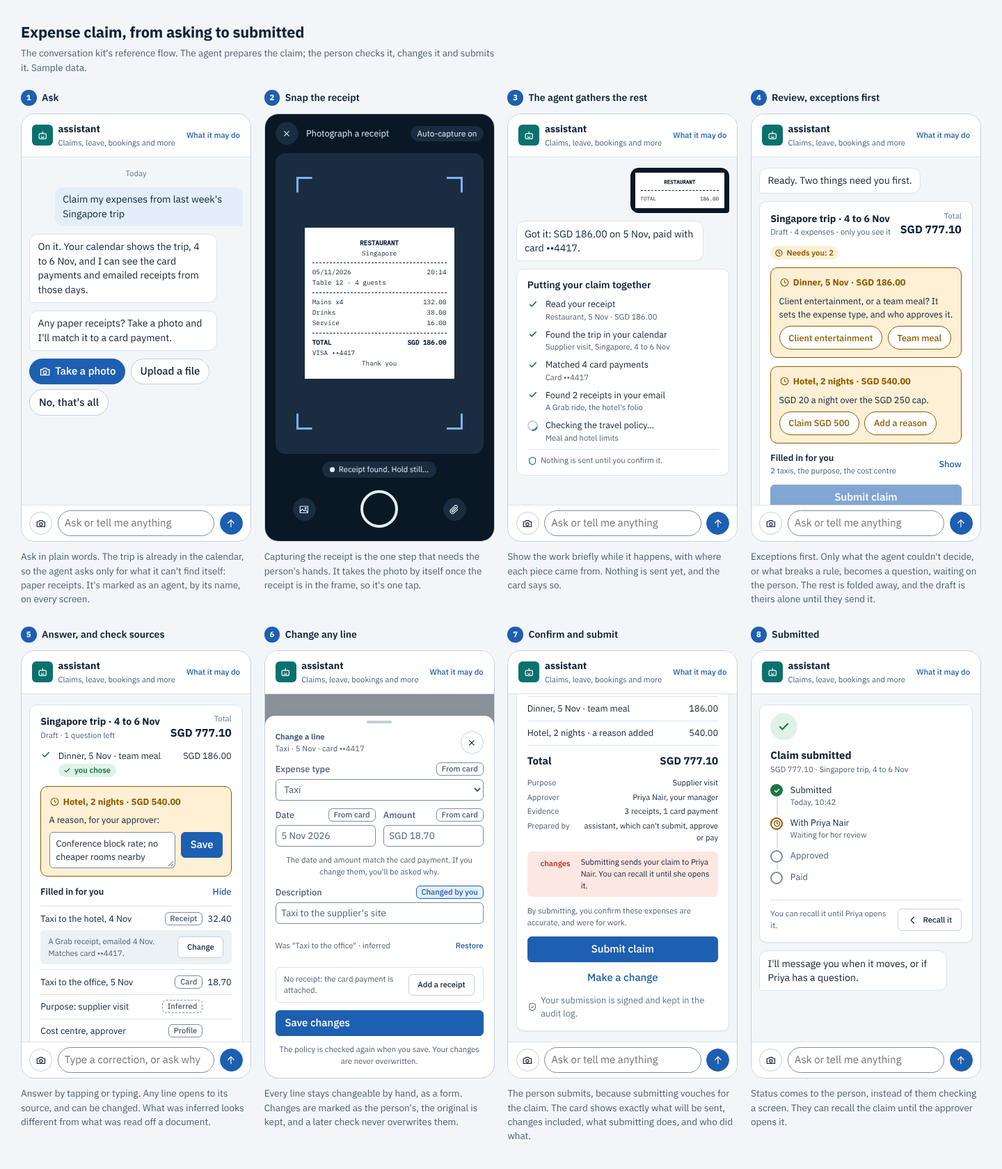
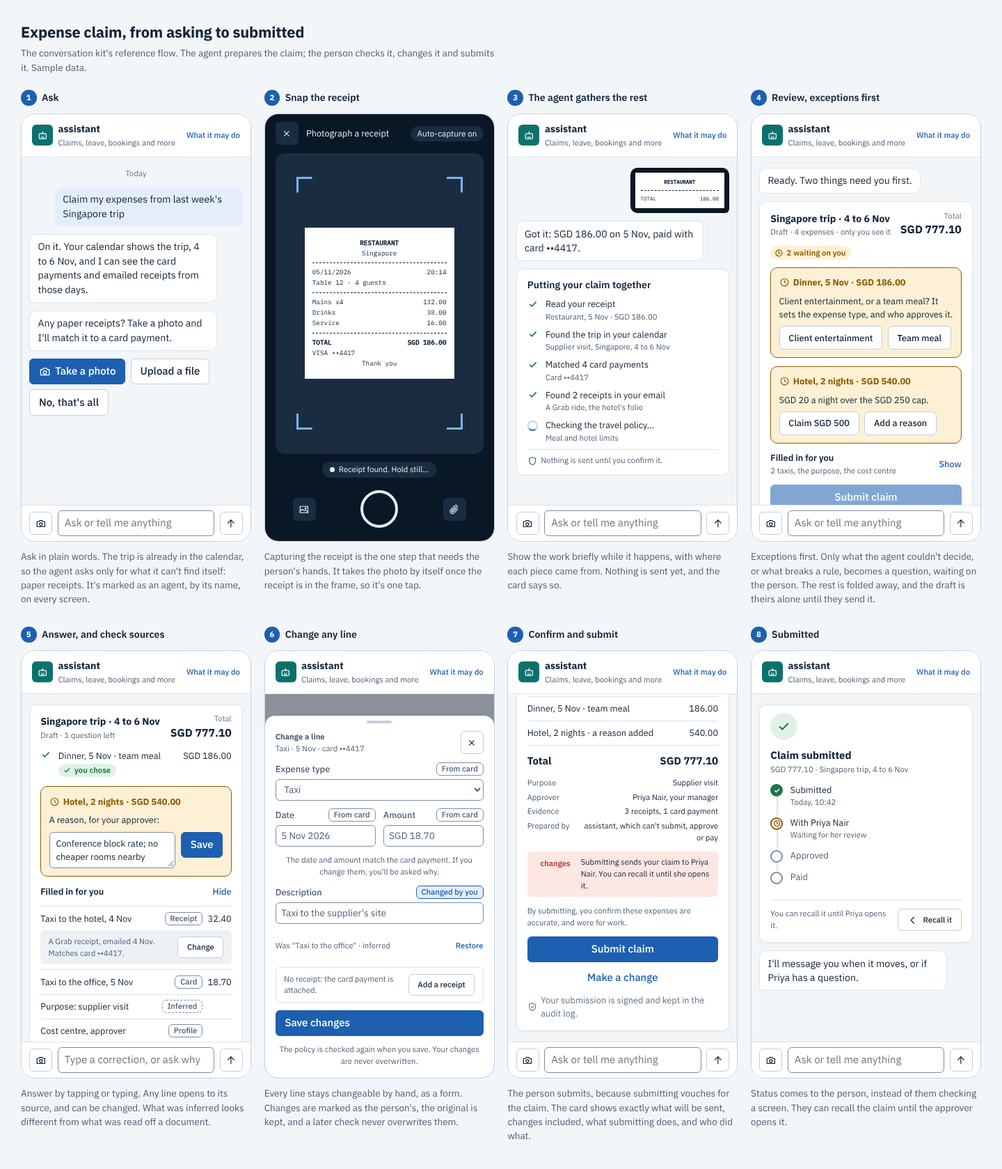
Hold the conversation kit to Ocean's own rules
Checked line by line against the brand book, the kit had drifted:

- Quick replies and the composer's field were pills, and its icon buttons
  circles; a button and a field are --radius-sm, as everywhere, and a
  circle is a person's, or a stage's, a state's, or what hangs from an
  agent on a canvas (now said in the brand book).
- A question's answers were amber buttons; they're plain buttons, and the
  box around them says it waits on the person.
- Send was always primary, so a screen had two; it stays plain until
  there's something to send.
- Bubbles were 12px; they're --radius-md, with --radius-sm at the corner
  nearest who said it.
- "Needs you: 2" is "2 waiting on you", in Ocean's lower-case badge words,
  in the Teams card too.

The README and the screens say plainly that the Teams picture is Teams'
look: Teams draws its cards, so they keep Ocean's rules and words, not its
colours or type.

Claude-Session: https://claude.ai/code/session_01VqgvTF3Xa1Y4d88AsQrSvC

diff --git a/components/InTeams/preview.html b/components/InTeams/preview.html
@@ -28,7 +28,7 @@
 <div class="tm-msg own"><span class="tm-time">10:41</span><div class="tm-bubble tm-photo"><div class="receipt mini" role="img" aria-label="The photo of the receipt"><p class="center"><strong>RESTAURANT</strong></p><hr><p><span>TOTAL</span><span>186.00</span></p></div></div></div>
 <div class="tm-msg bot"><span class="avatar agent" aria-hidden="true"><svg viewBox="0 0 24 24" aria-hidden="true" class="icon"><path d="M7 8.5h10a2.5 2.5 0 0 1 2.5 2.5v6A2.5 2.5 0 0 1 17 19.5H7A2.5 2.5 0 0 1 4.5 17v-6A2.5 2.5 0 0 1 7 8.5z"/><path d="M12 4.5v4"/><path d="M9.5 13.5h.01"/><path d="M14.5 13.5h.01"/><path d="M9.5 16.5h5"/></svg></span><div class="tm-msg-body">
 <div class="tm-meta"><strong>Expenses</strong><span>10:42</span><span class="tm-ai">AI generated</span></div>
-<div class="tm-bubble"><p class="tm-say">Ready. Two things need you first.</p><div class="tm-card"><div class="tm-cols"><div class="tm-col w-stretch"><p class="tm-text sz-medium bold">Singapore trip · 4 to 6 Nov</p><p class="tm-text sz-small subtle sp-none">Draft · 4 expenses · only you see it</p></div><div class="tm-col w-auto"><p class="tm-text sz-small subtle al-right">Total</p><p class="tm-text sz-medium bold al-right sp-none">SGD 777.10</p></div></div><span class="tm-badge st-warning ap-tint sp-medium"><svg viewBox="0 0 24 24" aria-hidden="true" class="tm-svg"><path d="M12 3.5a8.5 8.5 0 1 0 0 17 8.5 8.5 0 0 0 0-17z"/><path d="M12 7.5V12l3 2"/></svg>Needs you: 2</span><div class="tm-box st-warning border rounded sp-small"><div class="tm-cols"><div class="tm-col w-auto v-center"><span class="tm-icon c-warning sz-xsmall"><svg viewBox="0 0 24 24" aria-hidden="true" class="tm-svg"><path d="M12 3.5a8.5 8.5 0 1 0 0 17 8.5 8.5 0 0 0 0-17z"/><path d="M12 7.5V12l3 2"/></svg></span></div><div class="tm-col w-stretch"><p class="tm-text sz-default bold c-warning">Dinner, 5 Nov · SGD 186.00</p></div></div><p class="tm-text sz-default sp-small">Client entertainment, or a team meal? It sets the expense type, and who approves it.</p><div class="tm-actions sp-default"><button type="button" class="tm-btn">Client entertainment</button><button type="button" class="tm-btn">Team meal</button></div></div><div class="tm-box st-warning border rounded sp-small"><div class="tm-cols"><div class="tm-col w-auto v-center"><span class="tm-icon c-warning sz-xsmall"><svg viewBox="0 0 24 24" aria-hidden="true" class="tm-svg"><path d="M12 3.5a8.5 8.5 0 1 0 0 17 8.5 8.5 0 0 0 0-17z"/><path d="M12 7.5V12l3 2"/></svg></span></div><div class="tm-col w-stretch"><p class="tm-text sz-default bold c-warning">Hotel, 2 nights · SGD 540.00</p></div></div><p class="tm-text sz-default sp-small">SGD 20 a night over the SGD 250 cap.</p><div class="tm-actions sp-default"><button type="button" class="tm-btn">Claim SGD 500</button><button type="button" class="tm-btn">Add a reason</button></div></div><div class="tm-cols sp-medium sep"><div class="tm-col w-stretch"><p class="tm-text sz-default bold">Filled in for you</p><p class="tm-text sz-small subtle sp-none">2 taxis, the purpose, the cost centre</p></div><div class="tm-col w-auto v-center"><div class="tm-actions"><button type="button" class="tm-btn">Hide</button></div></div></div><div class="tm-box sp-default"><div class="tm-cols"><div class="tm-col w-stretch v-center"><p class="tm-text sz-default">Taxi to the hotel, 4 Nov</p></div><div class="tm-col w-auto v-center"><span class="tm-badge st-subtle ap-tint">Receipt</span></div><div class="tm-col w-56px v-center"><p class="tm-text sz-default al-right">32.40</p></div></div><div class="tm-cols sp-small sep"><div class="tm-col w-stretch v-center"><p class="tm-text sz-default">Taxi to the office, 5 Nov</p></div><div class="tm-col w-auto v-center"><span class="tm-badge st-subtle ap-tint">Card</span></div><div class="tm-col w-56px v-center"><p class="tm-text sz-default al-right">18.70</p></div></div><div class="tm-cols sp-small sep"><div class="tm-col w-stretch v-center"><p class="tm-text sz-default">Purpose: supplier visit</p></div><div class="tm-col w-auto v-center"><span class="tm-badge st-subtle ap-tint">Inferred</span></div><div class="tm-col w-56px v-center"><p class="tm-text sz-default al-right"></p></div></div><div class="tm-cols sp-small sep"><div class="tm-col w-stretch v-center"><p class="tm-text sz-default">Cost centre: Singapore operations</p></div><div class="tm-col w-auto v-center"><span class="tm-badge st-subtle ap-tint">Profile</span></div><div class="tm-col w-56px v-center"><p class="tm-text sz-default al-right"></p></div></div><div class="tm-cols sp-small sep"><div class="tm-col w-stretch v-center"><p class="tm-text sz-default">Approver: Priya Nair</p></div><div class="tm-col w-auto v-center"><span class="tm-badge st-subtle ap-tint">Profile</span></div><div class="tm-col w-56px v-center"><p class="tm-text sz-default al-right"></p></div></div><p class="tm-text sz-small subtle sp-small">Inferred values are worked out, not read: check them.</p></div><p class="tm-text sz-small subtle sp-medium">Answer the 2 questions to submit.</p><div class="tm-actions tm-card-actions"><button type="button" class="tm-btn st-positive" disabled>Submit claim</button><button type="button" class="tm-btn">Change a line</button><button type="button" class="tm-btn">Open as a page</button></div></div></div><div class="tm-feedback" aria-label="Feedback"><svg viewBox="0 0 24 24" aria-hidden="true" class="tm-svg"><path d="M8 10.5V20H4.5v-9.5z"/><path d="M8 19.5h8.6a2 2 0 0 0 2-1.6l1.1-5.6a2 2 0 0 0-2-2.3H14l.7-3.4A1.7 1.7 0 0 0 11.5 6L8 10.5"/></svg><svg viewBox="0 0 24 24" aria-hidden="true" class="tm-svg down"><path d="M8 10.5V20H4.5v-9.5z"/><path d="M8 19.5h8.6a2 2 0 0 0 2-1.6l1.1-5.6a2 2 0 0 0-2-2.3H14l.7-3.4A1.7 1.7 0 0 0 11.5 6L8 10.5"/></svg></div>
+<div class="tm-bubble"><p class="tm-say">Ready. Two things need you first.</p><div class="tm-card"><div class="tm-cols"><div class="tm-col w-stretch"><p class="tm-text sz-medium bold">Singapore trip · 4 to 6 Nov</p><p class="tm-text sz-small subtle sp-none">Draft · 4 expenses · only you see it</p></div><div class="tm-col w-auto"><p class="tm-text sz-small subtle al-right">Total</p><p class="tm-text sz-medium bold al-right sp-none">SGD 777.10</p></div></div><span class="tm-badge st-warning ap-tint sp-medium"><svg viewBox="0 0 24 24" aria-hidden="true" class="tm-svg"><path d="M12 3.5a8.5 8.5 0 1 0 0 17 8.5 8.5 0 0 0 0-17z"/><path d="M12 7.5V12l3 2"/></svg>2 waiting on you</span><div class="tm-box st-warning border rounded sp-small"><div class="tm-cols"><div class="tm-col w-auto v-center"><span class="tm-icon c-warning sz-xsmall"><svg viewBox="0 0 24 24" aria-hidden="true" class="tm-svg"><path d="M12 3.5a8.5 8.5 0 1 0 0 17 8.5 8.5 0 0 0 0-17z"/><path d="M12 7.5V12l3 2"/></svg></span></div><div class="tm-col w-stretch"><p class="tm-text sz-default bold c-warning">Dinner, 5 Nov · SGD 186.00</p></div></div><p class="tm-text sz-default sp-small">Client entertainment, or a team meal? It sets the expense type, and who approves it.</p><div class="tm-actions sp-default"><button type="button" class="tm-btn">Client entertainment</button><button type="button" class="tm-btn">Team meal</button></div></div><div class="tm-box st-warning border rounded sp-small"><div class="tm-cols"><div class="tm-col w-auto v-center"><span class="tm-icon c-warning sz-xsmall"><svg viewBox="0 0 24 24" aria-hidden="true" class="tm-svg"><path d="M12 3.5a8.5 8.5 0 1 0 0 17 8.5 8.5 0 0 0 0-17z"/><path d="M12 7.5V12l3 2"/></svg></span></div><div class="tm-col w-stretch"><p class="tm-text sz-default bold c-warning">Hotel, 2 nights · SGD 540.00</p></div></div><p class="tm-text sz-default sp-small">SGD 20 a night over the SGD 250 cap.</p><div class="tm-actions sp-default"><button type="button" class="tm-btn">Claim SGD 500</button><button type="button" class="tm-btn">Add a reason</button></div></div><div class="tm-cols sp-medium sep"><div class="tm-col w-stretch"><p class="tm-text sz-default bold">Filled in for you</p><p class="tm-text sz-small subtle sp-none">2 taxis, the purpose, the cost centre</p></div><div class="tm-col w-auto v-center"><div class="tm-actions"><button type="button" class="tm-btn">Hide</button></div></div></div><div class="tm-box sp-default"><div class="tm-cols"><div class="tm-col w-stretch v-center"><p class="tm-text sz-default">Taxi to the hotel, 4 Nov</p></div><div class="tm-col w-auto v-center"><span class="tm-badge st-subtle ap-tint">Receipt</span></div><div class="tm-col w-56px v-center"><p class="tm-text sz-default al-right">32.40</p></div></div><div class="tm-cols sp-small sep"><div class="tm-col w-stretch v-center"><p class="tm-text sz-default">Taxi to the office, 5 Nov</p></div><div class="tm-col w-auto v-center"><span class="tm-badge st-subtle ap-tint">Card</span></div><div class="tm-col w-56px v-center"><p class="tm-text sz-default al-right">18.70</p></div></div><div class="tm-cols sp-small sep"><div class="tm-col w-stretch v-center"><p class="tm-text sz-default">Purpose: supplier visit</p></div><div class="tm-col w-auto v-center"><span class="tm-badge st-subtle ap-tint">Inferred</span></div><div class="tm-col w-56px v-center"><p class="tm-text sz-default al-right"></p></div></div><div class="tm-cols sp-small sep"><div class="tm-col w-stretch v-center"><p class="tm-text sz-default">Cost centre: Singapore operations</p></div><div class="tm-col w-auto v-center"><span class="tm-badge st-subtle ap-tint">Profile</span></div><div class="tm-col w-56px v-center"><p class="tm-text sz-default al-right"></p></div></div><div class="tm-cols sp-small sep"><div class="tm-col w-stretch v-center"><p class="tm-text sz-default">Approver: Priya Nair</p></div><div class="tm-col w-auto v-center"><span class="tm-badge st-subtle ap-tint">Profile</span></div><div class="tm-col w-56px v-center"><p class="tm-text sz-default al-right"></p></div></div><p class="tm-text sz-small subtle sp-small">Inferred values are worked out, not read: check them.</p></div><p class="tm-text sz-small subtle sp-medium">Answer the 2 questions to submit.</p><div class="tm-actions tm-card-actions"><button type="button" class="tm-btn st-positive" disabled>Submit claim</button><button type="button" class="tm-btn">Change a line</button><button type="button" class="tm-btn">Open as a page</button></div></div></div><div class="tm-feedback" aria-label="Feedback"><svg viewBox="0 0 24 24" aria-hidden="true" class="tm-svg"><path d="M8 10.5V20H4.5v-9.5z"/><path d="M8 19.5h8.6a2 2 0 0 0 2-1.6l1.1-5.6a2 2 0 0 0-2-2.3H14l.7-3.4A1.7 1.7 0 0 0 11.5 6L8 10.5"/></svg><svg viewBox="0 0 24 24" aria-hidden="true" class="tm-svg down"><path d="M8 10.5V20H4.5v-9.5z"/><path d="M8 19.5h8.6a2 2 0 0 0 2-1.6l1.1-5.6a2 2 0 0 0-2-2.3H14l.7-3.4A1.7 1.7 0 0 0 11.5 6L8 10.5"/></svg></div>
 </div></div>
 </div>
 <div class="tm-suggested" aria-label="Suggested actions"><button type="button">Add another receipt</button><button type="button">What's the hotel cap?</button><button type="button">Save it for later</button></div>
@@ -65,7 +65,7 @@
 </div></div></div>
 </div>
 <div class="ds-group"><p class="label">Ocean's grammar, in Teams' tones</p>
-<div class="tm tm-canvas"><div class="tm-card"><dl class="tm-legend"><dt><span>Waiting on someone</span><code>--warn</code></dt><dd><span class="tm-badge st-warning ap-tint"><svg viewBox="0 0 24 24" aria-hidden="true" class="tm-svg"><path d="M12 3.5a8.5 8.5 0 1 0 0 17 8.5 8.5 0 0 0 0-17z"/><path d="M12 7.5V12l3 2"/></svg>Needs you: 2</span></dd><dt><span>Done, or going well</span><code>--good</code></dt><dd><span class="tm-badge st-good ap-tint"><svg viewBox="0 0 24 24" aria-hidden="true" class="tm-svg"><path d="M5.5 12.5l4 4 9-9"/></svg>Ready</span></dd><dt><span>Changes a record, or failed</span><code>--changes, --bad</code></dt><dd><span class="tm-badge st-attention ap-tint">Changes</span></dd><dt><span>Changed by the person</span><code>--accent</code></dt><dd><span class="tm-badge st-accent ap-tint">Changed by you</span></dd><dt><span>Writes, reads, sends out, the product's own</span><code>--writes, --reads, --outside, --own</code></dt><dd><span class="tm-badge st-subtle ap-tint">In words</span></dd></dl>
+<div class="tm tm-canvas"><div class="tm-card"><dl class="tm-legend"><dt><span>Waiting on someone</span><code>--warn</code></dt><dd><span class="tm-badge st-warning ap-tint"><svg viewBox="0 0 24 24" aria-hidden="true" class="tm-svg"><path d="M12 3.5a8.5 8.5 0 1 0 0 17 8.5 8.5 0 0 0 0-17z"/><path d="M12 7.5V12l3 2"/></svg>2 waiting on you</span></dd><dt><span>Done, or going well</span><code>--good</code></dt><dd><span class="tm-badge st-good ap-tint"><svg viewBox="0 0 24 24" aria-hidden="true" class="tm-svg"><path d="M5.5 12.5l4 4 9-9"/></svg>Ready</span></dd><dt><span>Changes a record, or failed</span><code>--changes, --bad</code></dt><dd><span class="tm-badge st-attention ap-tint">Changes</span></dd><dt><span>Changed by the person</span><code>--accent</code></dt><dd><span class="tm-badge st-accent ap-tint">Changed by you</span></dd><dt><span>Writes, reads, sends out, the product's own</span><code>--writes, --reads, --outside, --own</code></dt><dd><span class="tm-badge st-subtle ap-tint">In words</span></dd></dl>
 <p class="tm-text sz-small subtle sp-medium">Teams has five tones for a card, and Ocean's grammar has nine: the words always carry the meaning, and a tone joins them where Teams has one that means the same.</p></div></div>
 </div>
 </div>

diff --git a/components/ExpenseClaim/preview.html b/components/ExpenseClaim/preview.html
@@ -31,7 +31,7 @@
 <footer class="talk-foot">
 <button type="button" class="round" aria-label="Take a photo"><svg viewBox="0 0 24 24" aria-hidden="true" class="icon"><path d="M3.5 8h4l1.5-2.5h6L16.5 8h4v11h-17z"/><path d="M12 10.5a3.25 3.25 0 1 0 0 6.5 3.25 3.25 0 0 0 0-6.5z"/></svg></button>
 <input type="text" aria-label="Your message" placeholder="Ask or tell me anything">
-<button type="button" class="round primary" aria-label="Send"><svg viewBox="0 0 24 24" aria-hidden="true" class="icon"><path d="M12 19.5v-15"/><path d="M5.5 11L12 4.5l6.5 6.5"/></svg></button>
+<button type="button" class="round" aria-label="Send"><svg viewBox="0 0 24 24" aria-hidden="true" class="icon"><path d="M12 19.5v-15"/><path d="M5.5 11L12 4.5l6.5 6.5"/></svg></button>
 </footer>
 </section>
 </div>
@@ -77,7 +77,7 @@
 <footer class="talk-foot">
 <button type="button" class="round" aria-label="Take a photo"><svg viewBox="0 0 24 24" aria-hidden="true" class="icon"><path d="M3.5 8h4l1.5-2.5h6L16.5 8h4v11h-17z"/><path d="M12 10.5a3.25 3.25 0 1 0 0 6.5 3.25 3.25 0 0 0 0-6.5z"/></svg></button>
 <input type="text" aria-label="Your message" placeholder="Ask or tell me anything">
-<button type="button" class="round primary" aria-label="Send"><svg viewBox="0 0 24 24" aria-hidden="true" class="icon"><path d="M12 19.5v-15"/><path d="M5.5 11L12 4.5l6.5 6.5"/></svg></button>
+<button type="button" class="round" aria-label="Send"><svg viewBox="0 0 24 24" aria-hidden="true" class="icon"><path d="M12 19.5v-15"/><path d="M5.5 11L12 4.5l6.5 6.5"/></svg></button>
 </footer>
 </section>
 </div>
@@ -94,7 +94,7 @@
 <p class="say agent">Ready. Two things need you first.</p>
 <section class="draft" aria-label="Your claim, a draft">
 <div class="draft-head"><div><strong>Singapore trip · 4 to 6 Nov</strong><p>Draft · 4 expenses · only you see it</p></div><div class="draft-total"><span>Total</span><strong>SGD 777.10</strong></div></div>
-<span class="badge warn"><svg viewBox="0 0 24 24" aria-hidden="true" class="icon"><path d="M12 3.5a8.5 8.5 0 1 0 0 17 8.5 8.5 0 0 0 0-17z"/><path d="M12 7.5V12l3 2"/></svg>Needs you: 2</span>
+<span class="badge warn"><svg viewBox="0 0 24 24" aria-hidden="true" class="icon"><path d="M12 3.5a8.5 8.5 0 1 0 0 17 8.5 8.5 0 0 0 0-17z"/><path d="M12 7.5V12l3 2"/></svg>2 waiting on you</span>
 <div class="question">
 <strong><svg viewBox="0 0 24 24" aria-hidden="true" class="icon"><path d="M12 3.5a8.5 8.5 0 1 0 0 17 8.5 8.5 0 0 0 0-17z"/><path d="M12 7.5V12l3 2"/></svg>Dinner, 5 Nov · SGD 186.00</strong>
 <p>Client entertainment, or a team meal? It sets the expense type, and who approves it.</p>
@@ -113,7 +113,7 @@
 <footer class="talk-foot">
 <button type="button" class="round" aria-label="Take a photo"><svg viewBox="0 0 24 24" aria-hidden="true" class="icon"><path d="M3.5 8h4l1.5-2.5h6L16.5 8h4v11h-17z"/><path d="M12 10.5a3.25 3.25 0 1 0 0 6.5 3.25 3.25 0 0 0 0-6.5z"/></svg></button>
 <input type="text" aria-label="Your message" placeholder="Ask or tell me anything">
-<button type="button" class="round primary" aria-label="Send"><svg viewBox="0 0 24 24" aria-hidden="true" class="icon"><path d="M12 19.5v-15"/><path d="M5.5 11L12 4.5l6.5 6.5"/></svg></button>
+<button type="button" class="round" aria-label="Send"><svg viewBox="0 0 24 24" aria-hidden="true" class="icon"><path d="M12 19.5v-15"/><path d="M5.5 11L12 4.5l6.5 6.5"/></svg></button>
 </footer>
 </section>
 </div>
@@ -148,7 +148,7 @@
 <footer class="talk-foot">
 <button type="button" class="round" aria-label="Take a photo"><svg viewBox="0 0 24 24" aria-hidden="true" class="icon"><path d="M3.5 8h4l1.5-2.5h6L16.5 8h4v11h-17z"/><path d="M12 10.5a3.25 3.25 0 1 0 0 6.5 3.25 3.25 0 0 0 0-6.5z"/></svg></button>
 <input type="text" aria-label="Your message" placeholder="Type a correction, or ask why">
-<button type="button" class="round primary" aria-label="Send"><svg viewBox="0 0 24 24" aria-hidden="true" class="icon"><path d="M12 19.5v-15"/><path d="M5.5 11L12 4.5l6.5 6.5"/></svg></button>
+<button type="button" class="round" aria-label="Send"><svg viewBox="0 0 24 24" aria-hidden="true" class="icon"><path d="M12 19.5v-15"/><path d="M5.5 11L12 4.5l6.5 6.5"/></svg></button>
 </footer>
 </section>
 </div>
@@ -210,7 +210,7 @@
 <footer class="talk-foot">
 <button type="button" class="round" aria-label="Take a photo"><svg viewBox="0 0 24 24" aria-hidden="true" class="icon"><path d="M3.5 8h4l1.5-2.5h6L16.5 8h4v11h-17z"/><path d="M12 10.5a3.25 3.25 0 1 0 0 6.5 3.25 3.25 0 0 0 0-6.5z"/></svg></button>
 <input type="text" aria-label="Your message" placeholder="Ask or tell me anything">
-<button type="button" class="round primary" aria-label="Send"><svg viewBox="0 0 24 24" aria-hidden="true" class="icon"><path d="M12 19.5v-15"/><path d="M5.5 11L12 4.5l6.5 6.5"/></svg></button>
+<button type="button" class="round" aria-label="Send"><svg viewBox="0 0 24 24" aria-hidden="true" class="icon"><path d="M12 19.5v-15"/><path d="M5.5 11L12 4.5l6.5 6.5"/></svg></button>
 </footer>
 </section>
 </div>
@@ -240,7 +240,7 @@
 <footer class="talk-foot">
 <button type="button" class="round" aria-label="Take a photo"><svg viewBox="0 0 24 24" aria-hidden="true" class="icon"><path d="M3.5 8h4l1.5-2.5h6L16.5 8h4v11h-17z"/><path d="M12 10.5a3.25 3.25 0 1 0 0 6.5 3.25 3.25 0 0 0 0-6.5z"/></svg></button>
 <input type="text" aria-label="Your message" placeholder="Ask or tell me anything">
-<button type="button" class="round primary" aria-label="Send"><svg viewBox="0 0 24 24" aria-hidden="true" class="icon"><path d="M12 19.5v-15"/><path d="M5.5 11L12 4.5l6.5 6.5"/></svg></button>
+<button type="button" class="round" aria-label="Send"><svg viewBox="0 0 24 24" aria-hidden="true" class="icon"><path d="M12 19.5v-15"/><path d="M5.5 11L12 4.5l6.5 6.5"/></svg></button>
 </footer>
 </section>
 </div>

diff --git a/css/components.css b/css/components.css
@@ -748,18 +748,17 @@ button.danger.primary { background: var(--bad); border-color: var(--bad); color:
 .talk-head .link { font-size: var(--text-xs); }
 .talk-body { display: grid; align-content: start; gap: var(--space-3); min-height: 0; overflow: auto; padding: var(--space-4) var(--space-3); }
 .talk-day { justify-self: center; color: var(--faint); font-size: var(--text-xs); }
-.say { max-width: 88%; margin: 0; padding: 0.5rem 0.75rem; border-radius: 12px; font-size: var(--text-md); line-height: 1.45; }
-.say.you { justify-self: end; border-bottom-right-radius: 4px; background: var(--you); }
-.say.agent { justify-self: start; border: 1px solid var(--line); border-bottom-left-radius: 4px; background: var(--agent); }
+.say { max-width: 88%; margin: 0; padding: 0.5rem 0.75rem; border-radius: var(--radius-md); font-size: var(--text-md); line-height: 1.45; }
+.say.you { justify-self: end; border-bottom-right-radius: var(--radius-sm); background: var(--you); }
+.say.agent { justify-self: start; border: 1px solid var(--line); border-bottom-left-radius: var(--radius-sm); background: var(--agent); }
 .say.photo { padding: var(--space-2); background: var(--viewfinder); }
 .say.own { justify-self: center; display: flex; gap: 0.4rem; max-width: 100%; background: var(--own-message); font-size: var(--text-sm); }  /* the product's own word */
 .say.own .icon { width: 1rem; height: 1rem; flex: none; margin-top: 0.15rem; color: var(--own); }
 .replies { display: flex; flex-wrap: wrap; gap: var(--space-2); }
-.replies button { border-radius: var(--radius-pill); }
 .talk-foot { display: flex; align-items: center; gap: var(--space-2); padding: var(--space-2) var(--space-3);
              border-top: 1px solid var(--line); background: var(--surface); }
-.talk-foot input { flex: 1; min-width: 0; border-radius: var(--radius-pill); }
-.round { display: grid; place-items: center; width: 2.2rem; height: 2.2rem; flex: none; padding: 0; border-radius: 50%; }
+.talk-foot input { flex: 1; min-width: 0; }
+.round { display: grid; place-items: center; width: 2.2rem; height: 2.2rem; flex: none; padding: 0; }  /* an icon button: --radius-sm, as every button */
 .round .icon { width: 1.05rem; height: 1.05rem; }
 
 /* The work while it happens: each step ticked when done, where each piece came from, the one
@@ -797,7 +796,7 @@ button.danger.primary { background: var(--bad); border-color: var(--bad); color:
 .question > strong { display: flex; align-items: center; gap: 0.35rem; color: var(--warn); font-size: var(--text-sm); }
 .question > strong .icon { width: 1rem; height: 1rem; flex: none; }
 .question p { margin: 0; font-size: var(--text-sm); }
-.question .replies button { border-color: var(--warn); background: var(--surface); color: var(--warn); font-size: var(--text-sm); }
+.question .replies button { font-size: var(--text-sm); }
 .question-answer { display: flex; gap: var(--space-2); align-items: flex-start; }
 .question-answer textarea { flex: 1; min-height: 3.4rem; font-size: var(--text-sm); }
 .answered { display: grid; grid-template-columns: 1.2rem minmax(0, 1fr) auto; gap: var(--space-2); align-items: start; font-size: var(--text-sm); }

diff --git a/components/Capabilities/preview.html b/components/Capabilities/preview.html
@@ -13,7 +13,7 @@
 <div class="ds-caps">
 <div class="ds-group"><p class="label">Leave</p><section class="draft" aria-label="Your leave, a draft">
 <div class="draft-head"><div><strong>Leave · 18 to 22 Nov</strong><p>Draft · 5 working days · only you see it</p></div><div class="draft-total"><span>Left after</span><strong>9 days</strong></div></div>
-<span class="badge warn"><svg viewBox="0 0 24 24" aria-hidden="true" class="icon"><path d="M12 3.5a8.5 8.5 0 1 0 0 17 8.5 8.5 0 0 0 0-17z"/><path d="M12 7.5V12l3 2"/></svg>Needs you: 1</span>
+<span class="badge warn"><svg viewBox="0 0 24 24" aria-hidden="true" class="icon"><path d="M12 3.5a8.5 8.5 0 1 0 0 17 8.5 8.5 0 0 0 0-17z"/><path d="M12 7.5V12l3 2"/></svg>1 waiting on you</span>
 <div class="question">
 <strong><svg viewBox="0 0 24 24" aria-hidden="true" class="icon"><path d="M12 3.5a8.5 8.5 0 1 0 0 17 8.5 8.5 0 0 0 0-17z"/><path d="M12 7.5V12l3 2"/></svg>It overlaps the release, 20 Nov</strong>
 <p>Priya asked the team to stay that week. Ask for it anyway?</p>
@@ -28,7 +28,7 @@
 </section></div>
 <div class="ds-group"><p class="label">A supplier's bank details</p><section class="draft" aria-label="A change to a supplier, a draft">
 <div class="draft-head"><div><strong>Harbour Supply · bank details</strong><p>Draft · a change to a supplier</p></div><div class="draft-total"><span>Pays into</span><strong>••7710</strong></div></div>
-<span class="badge warn"><svg viewBox="0 0 24 24" aria-hidden="true" class="icon"><path d="M12 3.5a8.5 8.5 0 1 0 0 17 8.5 8.5 0 0 0 0-17z"/><path d="M12 7.5V12l3 2"/></svg>Needs you: 1</span>
+<span class="badge warn"><svg viewBox="0 0 24 24" aria-hidden="true" class="icon"><path d="M12 3.5a8.5 8.5 0 1 0 0 17 8.5 8.5 0 0 0 0-17z"/><path d="M12 7.5V12l3 2"/></svg>1 waiting on you</span>
 <div class="question">
 <strong><svg viewBox="0 0 24 24" aria-hidden="true" class="icon"><path d="M12 3.5a8.5 8.5 0 1 0 0 17 8.5 8.5 0 0 0 0-17z"/><path d="M12 7.5V12l3 2"/></svg>The new bank is in another country</strong>
 <p>Payments to it get a second check. Add the supplier's letter?</p>
@@ -43,7 +43,7 @@
 </section></div>
 <div class="ds-group"><p class="label">Access to reports</p><section class="draft" aria-label="Your access, a draft">
 <div class="draft-head"><div><strong>Finance reports · for 30 days</strong><p>Draft · access for you</p></div><div class="draft-total"><span>Ends</span><strong>15 Dec</strong></div></div>
-<span class="badge warn"><svg viewBox="0 0 24 24" aria-hidden="true" class="icon"><path d="M12 3.5a8.5 8.5 0 1 0 0 17 8.5 8.5 0 0 0 0-17z"/><path d="M12 7.5V12l3 2"/></svg>Needs you: 1</span>
+<span class="badge warn"><svg viewBox="0 0 24 24" aria-hidden="true" class="icon"><path d="M12 3.5a8.5 8.5 0 1 0 0 17 8.5 8.5 0 0 0 0-17z"/><path d="M12 7.5V12l3 2"/></svg>1 waiting on you</span>
 <div class="question">
 <strong><svg viewBox="0 0 24 24" aria-hidden="true" class="icon"><path d="M12 3.5a8.5 8.5 0 1 0 0 17 8.5 8.5 0 0 0 0-17z"/><path d="M12 7.5V12l3 2"/></svg>They include salaries, which are PII</strong>
 <p>Ask for the reports without salaries?</p>

diff --git a/components/AppConversation/preview.html b/components/AppConversation/preview.html
@@ -50,14 +50,14 @@
 <footer class="talk-foot">
 <button type="button" class="round" aria-label="Take a photo"><svg viewBox="0 0 24 24" aria-hidden="true" class="icon"><path d="M3.5 8h4l1.5-2.5h6L16.5 8h4v11h-17z"/><path d="M12 10.5a3.25 3.25 0 1 0 0 6.5 3.25 3.25 0 0 0 0-6.5z"/></svg></button>
 <input type="text" aria-label="Your message" placeholder="Type a correction, or ask why">
-<button type="button" class="round primary" aria-label="Send"><svg viewBox="0 0 24 24" aria-hidden="true" class="icon"><path d="M12 19.5v-15"/><path d="M5.5 11L12 4.5l6.5 6.5"/></svg></button>
+<button type="button" class="round" aria-label="Send"><svg viewBox="0 0 24 24" aria-hidden="true" class="icon"><path d="M12 19.5v-15"/><path d="M5.5 11L12 4.5l6.5 6.5"/></svg></button>
 </footer>
 </section>
 <aside class="talk-pinned" aria-label="Your claim, as it stands">
 <div class="talk-pinned-head"><p class="label">Your claim, as it stands</p><button type="button" class="link">Open it as a page</button></div>
 <section class="draft" aria-label="Your claim, a draft">
 <div class="draft-head"><div><strong>Singapore trip · 4 to 6 Nov</strong><p>Draft · 4 expenses · only you see it</p></div><div class="draft-total"><span>Total</span><strong>SGD 777.10</strong></div></div>
-<span class="badge warn"><svg viewBox="0 0 24 24" aria-hidden="true" class="icon"><path d="M12 3.5a8.5 8.5 0 1 0 0 17 8.5 8.5 0 0 0 0-17z"/><path d="M12 7.5V12l3 2"/></svg>Needs you: 2</span>
+<span class="badge warn"><svg viewBox="0 0 24 24" aria-hidden="true" class="icon"><path d="M12 3.5a8.5 8.5 0 1 0 0 17 8.5 8.5 0 0 0 0-17z"/><path d="M12 7.5V12l3 2"/></svg>2 waiting on you</span>
 <div class="question">
 <strong><svg viewBox="0 0 24 24" aria-hidden="true" class="icon"><path d="M12 3.5a8.5 8.5 0 1 0 0 17 8.5 8.5 0 0 0 0-17z"/><path d="M12 7.5V12l3 2"/></svg>Dinner, 5 Nov · SGD 186.00</strong>
 <p>Client entertainment, or a team meal? It sets the expense type, and who approves it.</p>

diff --git a/components/Draft/preview.html b/components/Draft/preview.html
@@ -12,7 +12,7 @@
 <div id="root">
 <section class="draft" aria-label="Your claim, a draft">
 <div class="draft-head"><div><strong>Singapore trip · 4 to 6 Nov</strong><p>Draft · 4 expenses · only you see it</p></div><div class="draft-total"><span>Total</span><strong>SGD 777.10</strong></div></div>
-<span class="badge warn"><svg viewBox="0 0 24 24" aria-hidden="true" class="icon"><path d="M12 3.5a8.5 8.5 0 1 0 0 17 8.5 8.5 0 0 0 0-17z"/><path d="M12 7.5V12l3 2"/></svg>Needs you: 2</span>
+<span class="badge warn"><svg viewBox="0 0 24 24" aria-hidden="true" class="icon"><path d="M12 3.5a8.5 8.5 0 1 0 0 17 8.5 8.5 0 0 0 0-17z"/><path d="M12 7.5V12l3 2"/></svg>2 waiting on you</span>
 <div class="question">
 <strong><svg viewBox="0 0 24 24" aria-hidden="true" class="icon"><path d="M12 3.5a8.5 8.5 0 1 0 0 17 8.5 8.5 0 0 0 0-17z"/><path d="M12 7.5V12l3 2"/></svg>Dinner, 5 Nov · SGD 186.00</strong>
 <p>Client entertainment, or a team meal? It sets the expense type, and who approves it.</p>

diff --git a/components/Talk/preview.html b/components/Talk/preview.html
@@ -27,7 +27,7 @@
 <footer class="talk-foot">
 <button type="button" class="round" aria-label="Take a photo"><svg viewBox="0 0 24 24" aria-hidden="true" class="icon"><path d="M3.5 8h4l1.5-2.5h6L16.5 8h4v11h-17z"/><path d="M12 10.5a3.25 3.25 0 1 0 0 6.5 3.25 3.25 0 0 0 0-6.5z"/></svg></button>
 <input type="text" aria-label="Your message" placeholder="Ask or tell me anything">
-<button type="button" class="round primary" aria-label="Send"><svg viewBox="0 0 24 24" aria-hidden="true" class="icon"><path d="M12 19.5v-15"/><path d="M5.5 11L12 4.5l6.5 6.5"/></svg></button>
+<button type="button" class="round" aria-label="Send"><svg viewBox="0 0 24 24" aria-hidden="true" class="icon"><path d="M12 19.5v-15"/><path d="M5.5 11L12 4.5l6.5 6.5"/></svg></button>
 </footer>
 </section>
 </div>

diff --git a/docs/design.md b/docs/design.md
@@ -93,7 +93,7 @@ These meanings are the products' shared grammar, the same on every surface: badg
 
 ## Shape and depth
 
-- `--radius-sm` (6px) for buttons, inputs, tiers and the marks of agents and services; `--radius-md` (10px) for cards, wells and popovers; `--radius-lg` (14px) for decisions and dialogs; `--radius-pill` for badges, chips and meters. People are circles.
+- `--radius-sm` (6px) for buttons, inputs, tiers and the marks of agents and services; `--radius-md` (10px) for cards, wells and popovers; `--radius-lg` (14px) for decisions and dialogs; `--radius-pill` for badges, chips and meters. People are circles, with their initials. A circle with a mark in it is a stage or a state (a tick, a clock), or what hangs from an agent on a canvas. A button is never a circle.
 - Cards rest on `--shadow` in light and on nothing in dark. What floats over the page, such as popovers, dialogs and decisions, takes `--shadow-raised`.
 - Line tells how something stands. Dashed is what isn't in force yet: an instance not in the settings yet, a rung beyond the current one, someone's own tier, a value an agent worked out until a person checks it. Faded to 0.42 is what a run didn't use.
 

diff --git a/README.md b/README.md
@@ -75,6 +75,8 @@ Drawn from the previews in `components/`, in light. This is the design: no produ
 ![a5s, a7c and a3t in one frame, told apart by their names and marks alone](docs/images/ocean-three-products.png)
 ![a3t's app designer, building an expense claim's form in someone's own space](docs/images/ocean-a3t-designer.png)
 ![The conversation kit's reference flow: an expense claim, from asking to submitted, in eight steps](docs/images/ocean-expense-claim.png)
-![The same claim in Microsoft Teams, drawn from its cards in teams/cards](docs/images/ocean-in-teams.png)
+![The same claim in Microsoft Teams, drawn from its cards in teams/cards, in Teams' own look: Teams draws its cards itself, so this one keeps Ocean's rules and words, not its colours or type](docs/images/ocean-in-teams.png)
+
+The last is Teams' look, not Ocean's: Teams draws its cards itself, in its own font and colours, so there the kit keeps Ocean's rules, words and order ([`docs/conversation.md`](docs/conversation.md)).
 
 IBM Plex is © IBM Corp., under the SIL Open Font License 1.1 ([`fonts/`](fonts)).

diff --git a/components/Talk/README.md b/components/Talk/README.md
@@ -6,6 +6,7 @@ The conversation itself: the agent who answers, marked as an agent by its mark a
 - What the person says sits on `--you`, at the end; what the agent says on `--agent`, at the start. The agent's cards (a draft, a question, what will be sent) sit in the talk, a phone's width at most.
 - The product's own word sits on `--own-message`, by its shield, in the middle: what the product, not the agent, says, such as what the agent may read for this.
 - Quick answers are buttons in a row; the one most people will take is the primary.
+- Send stays a plain button until there's something to send, so a screen keeps one primary.
 - The composer takes words, a photo or a file, in any order: an outcome can start from any of them.
 
 It belongs to the conversation kit (docs/conversation.md), for any capability, not one kind of app.

diff --git a/docs/images/README.md b/docs/images/README.md
@@ -7,4 +7,4 @@ How Ocean looks, drawn from the design system's own previews in `components/`, i
 - `ocean-three-products.png` (Products): a5s, a7c and a3t in one frame, told apart by their names and marks alone.
 - `ocean-a3t-designer.png` (AppDesigner): a3t's app designer, building an expense claim's form in someone's own space.
 - `ocean-expense-claim.png` (ExpenseClaim): the conversation kit's reference flow, an expense claim from asking to submitted.
-- `ocean-in-teams.png` (InTeams): the same claim in Microsoft Teams, drawn from its cards in `teams/cards`.
+- `ocean-in-teams.png` (InTeams): the same claim in Microsoft Teams, drawn from its cards in `teams/cards`. It's Teams' look, not Ocean's: Teams draws its cards itself, so it keeps Ocean's rules and words, not its colours or type.
